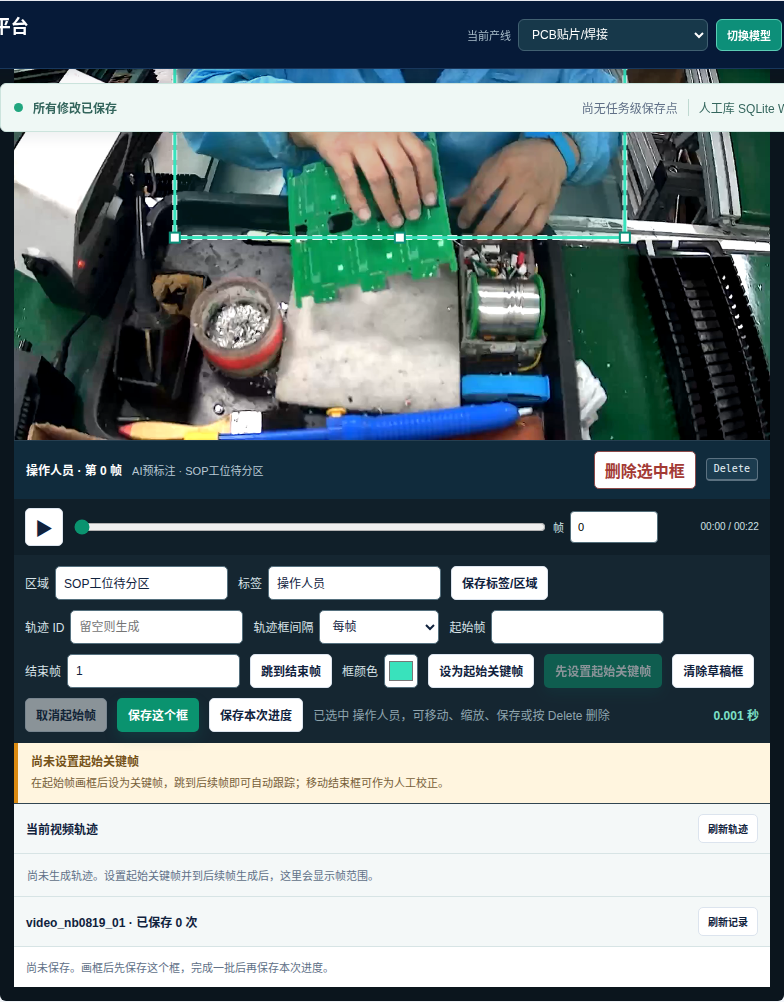
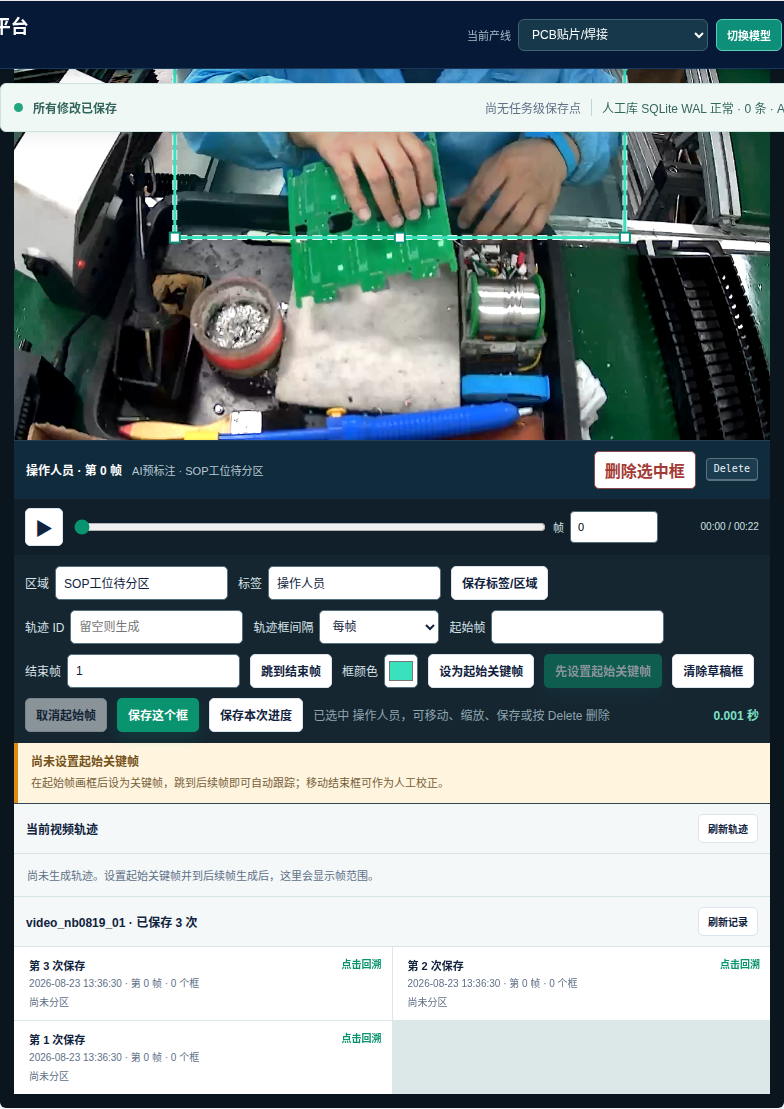
feat: gate training with thermal and GPU resource policy

diff --git a/sop-platform/web/index.html b/sop-platform/web/index.html
@@ -242,11 +242,11 @@
             <label>基础模型<select id="trainingAlgorithm"></select><small>优先使用 YOLO26N 实时模型</small></label>
             <label>已加载图片/视频标注集<select id="trainingDataset"></select><small id="trainingDatasetState">正在检查标签状态</small></label>
             <label>真值模式<select id="trainingTruthMode"><option value="human-confirmed">正式训练：仅人工确认真值</option><option value="candidate-pretrain">候选预训练：不计量产精度</option></select><small>默认禁止待复核候选冒充真值</small></label>
-            <label>运行设备<select id="trainingDevice"><option value="0">GPU 0 / CUDA</option><option value="1">GPU 1 / CUDA</option><option value="cpu">CPU（很慢，仅兼容测试）</option></select><small>系统将实际占用所选设备</small></label>
+            <label>运行设备<select id="trainingDevice"><option value="0">GPU 0 / NVIDIA GB10</option><option value="0,1" disabled>多 GPU DDP（当前仅 1 卡）</option><option value="cpu">CPU（很慢，仅兼容测试）</option></select><small>训练与后台预标互斥；70°C 暂停、62°C 恢复</small></label>
             <label>训练轮次 Epochs<input id="trainingEpochs" type="number" min="1" max="500" value="5"><small>当前需求默认 5 轮</small></label>
             <label>Batch Size<select id="trainingBatch"><option>1</option><option>2</option><option selected>4</option><option>8</option><option>16</option><option>32</option></select><small>显存不足时减小</small></label>
-            <label>输入尺寸<select id="trainingImgsz"><option value="640">640</option><option value="960" selected>960（小元器件推荐）</option><option value="1280">1280</option></select><small>越大越慢但更利于小目标</small></label>
-            <label>DataLoader Workers<input id="trainingWorkers" type="number" min="0" max="16" value="2"><small>DGX 本地建议 2–8</small></label>
+            <label>输入尺寸<select id="trainingImgsz"><option value="640" selected>640（本轮工位级推荐）</option><option value="960">960</option><option value="1280">1280</option></select><small>升高尺寸前先暂停实时推理并评估温度</small></label>
+            <label>DataLoader Workers<input id="trainingWorkers" type="number" min="0" max="8" value="1"><small>后台低负载默认 1</small></label>
             <label>Early Stop Patience<input id="trainingPatience" type="number" min="0" max="100" value="5"><small>若指标不再提升则提前停止</small></label>
             <label>随机种子<input id="trainingSeed" type="number" value="20260820"><small>保证可复现实验</small></label>
             <label>结果保存位置<select id="trainingOutput"><option value="platform">平台运行目录</option><option value="model-store">DGX 模型仓库</option><option value="desktop">桌面“训练结果”</option></select><small id="trainingOutputPath">由后端限制在安全目录</small></label>

diff --git a/sop-platform/server.py b/sop-platform/server.py
@@ -113,6 +113,11 @@ AI_PRELABEL_PROCESS: subprocess.Popen | None = None
 PRELABEL_WORKER_TOKEN = os.getenv("SOP_PRELABEL_WORKER_TOKEN", "")
 AUTOMATIC_BACKUP_MIN_INTERVAL = max(60, int(os.getenv("SOP_AUTOMATIC_BACKUP_MIN_INTERVAL", "300")))
 PRELABEL_DISTRIBUTED_CONTROL_PATH = RUNTIME_ROOT / "distributed_prelabel_control.json"
+TRAINING_MAX_TEMPERATURE = max(50.0, float(os.getenv("SOP_TRAINING_MAX_TEMPERATURE", "70")))
+TRAINING_RESUME_TEMPERATURE = min(
+    TRAINING_MAX_TEMPERATURE - 1,
+    float(os.getenv("SOP_TRAINING_RESUME_TEMPERATURE", "62")),
+)
 CAMERA_UPSTREAM_URL = os.getenv("SOP_CAMERA_UPSTREAM_URL", "").strip().rstrip("/")
 CAMERA_UPSTREAM_USER = os.getenv("SOP_CAMERA_UPSTREAM_USER", "").strip()
 CAMERA_UPSTREAM_PASSWORD = os.getenv("SOP_CAMERA_UPSTREAM_PASSWORD", "")
@@ -3232,6 +3237,10 @@ def resolve_training_model(model_id: str) -> Path:
     if not model_path.is_absolute():
         model_path = ROOT / model_path
     if not model_path.is_file():
+        managed_model = SPARK_MODEL_ROOT / model_path.name
+        if managed_model.is_file():
+            model_path = managed_model
+    if not model_path.is_file():
         raise ValueError(f"预训练权重不存在: {model_path}")
     return model_path
 
@@ -3259,6 +3268,16 @@ def training_job(job_id: str) -> dict[str, object] | None:
     return None
 
 
+def cuda_device_count() -> int:
+    try:
+        result = subprocess.run(
+            ["nvidia-smi", "-L"], capture_output=True, text=True, timeout=4, check=False,
+        )
+        return sum(line.startswith("GPU ") for line in result.stdout.splitlines()) if result.returncode == 0 else 0
+    except (OSError, subprocess.TimeoutExpired):
+        return 0
+
+
 def start_training_job(payload: dict[str, object], operator: str) -> dict[str, object]:
     dataset = resolve_training_dataset(str(payload.get("dataset") or ""))
     truth_mode = str(payload.get("truth_mode") or "human-confirmed")
@@ -3270,8 +3289,8 @@ def start_training_job(payload: dict[str, object], operator: str) -> dict[str, o
     model_path = resolve_training_model(model_id)
     epochs = max(1, min(500, int(payload.get("epochs", 5))))
     batch = max(1, min(128, int(payload.get("batch", 4))))
-    imgsz = max(320, min(2048, int(payload.get("imgsz", 960))))
-    workers = max(0, min(16, int(payload.get("workers", 2))))
+    imgsz = max(320, min(2048, int(payload.get("imgsz", 640))))
+    workers = max(0, min(8, int(payload.get("workers", 1))))
     patience = max(0, min(100, int(payload.get("patience", min(20, epochs)))))
     seed = int(payload.get("seed", 20260820))
     optimizer = str(payload.get("optimizer") or "auto")
@@ -3286,8 +3305,19 @@ def start_training_job(payload: dict[str, object], operator: str) -> dict[str, o
     if cache not in {"false", "ram", "disk"}:
         raise ValueError("缓存模式只允许 false、ram 或 disk")
     device = str(payload.get("device") or "0")
-    if device not in {"0", "1", "cpu"}:
-        raise ValueError("运行设备只允许 GPU 0、GPU 1 或 CPU")
+    gpu_count = cuda_device_count()
+    valid_devices = {"cpu", *[str(index) for index in range(gpu_count)]}
+    if gpu_count > 1:
+        valid_devices.add(",".join(str(index) for index in range(gpu_count)))
+    if device not in valid_devices:
+        raise ValueError(f"运行设备 {device} 不存在；当前检测到 {gpu_count} 块 GPU")
+    for existing_dir in training_job_dirs():
+        existing = read_config(existing_dir / "status.json", {})
+        if existing.get("status") in {"queued", "running"} and _process_is_running(existing.get("pid")):
+            raise ValueError(f"已有训练任务 {existing.get('job_id') or existing_dir.name} 在运行；为保护 DGX 不允许并发训练")
+    distributed = distributed_prelabel_status()
+    if device != "cpu" and int((distributed.get("jobs") or {}).get("running") or 0):
+        raise ValueError("分布式预标 worker 正在使用 GPU；请先在 03 页面暂停预标，待当前批次落库后再启动训练")
     output_key = str(payload.get("output") or "platform")
     output_root = TRAINING_OUTPUT_ROOTS.get(output_key)
     if output_root is None:
@@ -3306,6 +3336,12 @@ def start_training_job(payload: dict[str, object], operator: str) -> dict[str, o
         "estimated_seconds": seconds_mid, "estimated_range_seconds": [int(seconds_mid * 0.65), int(seconds_mid * 1.6)],
         "created_at": time.strftime("%Y-%m-%d %H:%M:%S"),
         "truth_notice": "human-confirmed 才可作为量产精度；candidate-pretrain 只衡量候选标签一致性。",
+        "resource_policy": {
+            "gpu_count": gpu_count, "ddp": "," in device,
+            "max_temperature_c": TRAINING_MAX_TEMPERATURE,
+            "resume_temperature_c": TRAINING_RESUME_TEMPERATURE,
+            "concurrent_training": 1, "prelabel_mutual_exclusion": True,
+        },
     }
     (job_dir / "status.json").write_text(json.dumps(status, ensure_ascii=False, indent=2), encoding="utf-8")
     command = [
@@ -3315,6 +3351,7 @@ def start_training_job(payload: dict[str, object], operator: str) -> dict[str, o
         "--patience", str(patience), "--seed", str(seed), "--target", str(payload.get("target") or "jetson"),
         "--truth-mode", truth_mode, "--optimizer", optimizer, "--lr0", str(lr0), "--weight-decay", str(weight_decay),
         "--close-mosaic", str(close_mosaic), "--freeze", str(freeze), "--amp", "true" if amp else "false", "--cache", cache,
+        "--max-temperature", str(TRAINING_MAX_TEMPERATURE), "--resume-temperature", str(TRAINING_RESUME_TEMPERATURE),
     ]
     log_handle = (job_dir / "training.log").open("a", encoding="utf-8")
     process = subprocess.Popen(command, cwd=ROOT, stdout=log_handle, stderr=subprocess.STDOUT, start_new_session=True)

diff --git a/sop-platform/scripts/run_training_job.py b/sop-platform/scripts/run_training_job.py
@@ -2,7 +2,9 @@ from __future__ import annotations
 
 import argparse
 import json
+import os
 import shutil
+import subprocess
 import time
 import traceback
 import zipfile
@@ -20,6 +22,17 @@ def update(status_path: Path, base: dict, **values: object) -> dict:
     base["updated_at"] = time.strftime("%Y-%m-%d %H:%M:%S")
     atomic_json(status_path, base)
     return base
+
+
+def gpu_temperature() -> float | None:
+    try:
+        result = subprocess.run(
+            ["nvidia-smi", "--query-gpu=temperature.gpu", "--format=csv,noheader,nounits"],
+            capture_output=True, text=True, timeout=3, check=False,
+        )
+        return max(float(line.strip()) for line in result.stdout.splitlines()) if result.returncode == 0 else None
+    except (OSError, ValueError, subprocess.TimeoutExpired):
+        return None
 
 
 def main() -> None:
@@ -43,6 +56,8 @@ def main() -> None:
     parser.add_argument("--cache", choices=("false", "ram", "disk"), default="false")
     parser.add_argument("--target", choices=("jetson", "cuda-server", "onnx-server"), default="jetson")
     parser.add_argument("--truth-mode", choices=("human-confirmed", "candidate-pretrain"), required=True)
+    parser.add_argument("--max-temperature", type=float, default=70.0)
+    parser.add_argument("--resume-temperature", type=float, default=62.0)
     args = parser.parse_args()
 
     args.job_dir.mkdir(parents=True, exist_ok=True)
@@ -50,10 +65,30 @@ def main() -> None:
     status = json.loads(status_path.read_text(encoding="utf-8"))
     started = time.time()
     try:
+        try:
+            os.nice(15)
+            subprocess.run(["ionice", "-c", "3", "-p", str(os.getpid())], timeout=3, check=False)
+        except (OSError, subprocess.TimeoutExpired):
+            pass
         from ultralytics import YOLO
 
         update(status_path, status, status="running", stage="训练", progress=5, started_at=time.strftime("%Y-%m-%d %H:%M:%S"))
         model = YOLO(args.model)
+
+        def thermal_guard(_trainer) -> None:
+            temperature = gpu_temperature()
+            if temperature is None or temperature < args.max_temperature:
+                return
+            update(
+                status_path, status, stage="温控暂停", gpu_temperature_c=temperature,
+                message=f"GPU {temperature:.0f}°C，等待降至 {args.resume_temperature:.0f}°C 后继续",
+            )
+            while temperature is not None and temperature > args.resume_temperature:
+                time.sleep(20)
+                temperature = gpu_temperature()
+            update(status_path, status, stage="训练", gpu_temperature_c=temperature, message="温度恢复，继续训练")
+
+        model.add_callback("on_train_batch_start", thermal_guard)
         result = model.train(
             data=str(args.data), epochs=args.epochs, batch=args.batch, imgsz=args.imgsz,
             device=args.device, workers=args.workers, patience=args.patience, seed=args.seed,
@@ -73,6 +108,7 @@ def main() -> None:
 
         update(status_path, status, stage="验证", progress=76, best_weight=str(best_copy))
         validated = YOLO(str(best_copy))
+        validated.add_callback("on_val_batch_start", thermal_guard)
         metrics = validated.val(
             data=str(args.data), split="val", batch=args.batch, imgsz=args.imgsz,
             device=args.device, workers=args.workers, project=str(args.job_dir / "runs"),

diff --git a/sop-platform/qa/test_release_8116.py b/sop-platform/qa/test_release_8116.py
@@ -74,6 +74,13 @@ def main() -> None:
             "temperature": page.locator("#distributedTemperature").inner_text(),
             "jobs": page.locator("#distributedJobState").inner_text(),
         }
+        page.click('.nav-item[data-view="training"]')
+        checks["training_resource_policy"] = {
+            "device": page.locator("#trainingDevice").input_value(),
+            "ddp_disabled": page.locator("#trainingDevice option[value='0,1']").evaluate("option => option.disabled"),
+            "imgsz": page.locator("#trainingImgsz").input_value(),
+            "workers": page.locator("#trainingWorkers").input_value(),
+        }
         page.click('.nav-item[data-view="annotation"]')
         page.select_option("#annotVideoSelect", "video_nb0819_01")
         page.wait_for_function("document.querySelector('#annotVideoSelect').value === 'video_nb0819_01'")
@@ -176,6 +183,9 @@ def main() -> None:
     assert checks["architecture"]["loaded"] is True
     assert checks["architecture"]["width"] > 1000
     assert "pending_review" in checks["distributed_prelabel"]["detail"]
+    assert checks["training_resource_policy"] == {
+        "device": "0", "ddp_disabled": True, "imgsz": "640", "workers": "1",
+    }
     assert checks["mobile_layout"]["page_scroll_width"] <= checks["mobile_layout"]["viewport_width"]
     assert checks["mobile_layout"]["filter_width"] <= checks["mobile_layout"]["viewport_width"]
     assert not report["http_errors"]

diff --git a/sop-platform/docs/32_宁波视觉SOP_CVAT分布式预标注完整说明书_20260823.md b/sop-platform/docs/32_宁波视觉SOP_CVAT分布式预标注完整说明书_20260823.md
@@ -469,6 +469,14 @@ nvidia-smi --query-gpu=name,temperature.gpu,utilization.gpu,power.draw --format=
 
 首次只对 `video_nb0819_01` 的 344 帧执行完整预标。验收必须确认：AI 数据库记录 344 个帧状态；标注 ID 含视频 ID，不与其他视频冲突；标签不含本轮排除的微小元件；所有候选均待人工复核；框单击选择延迟目标低于 50 ms；GPU 未触发 70°C 停机线；人工标注库未因 AI 结果明显膨胀。通过后才能逐步开放其余视频和第二节点。
 
+### 24.6 训练资源调度和 DDP 边界
+
+06 训练执行器会读取本机 `nvidia-smi -L` 的真实 GPU 数量。只有同一训练节点实际存在两块或更多 GPU 时，设备列表 `0,1` 才具备 Ultralytics/PyTorch DDP 条件；当前 DGX Spark 只检测到一块 NVIDIA GB10，因此只能使用 GPU 0，不能把多个进程启动在同一块卡上冒充分布式训练。
+
+GPU 训练与分布式预标互斥：若 03 页面仍有 worker 正在运行，训练 API 会拒绝启动并提示先暂停预标。系统同一时间只允许一个真实训练任务。训练默认 `batch=4`、`imgsz=640`、DataLoader worker 1、低 CPU/I/O 调度；每个训练和验证 batch 前检查温度，达到 70°C 暂停、降到 62°C 恢复。现场实时检测仍具有最高业务优先级，训练应安排在人工复核和数据冻结完成后的夜间窗口。
+
+跨主机 DDP 只有在远端节点通过 GPU、CUDA、网络、共享数据、模型 SHA256 和 NCCL 验收后才能启用。当前 `.128` 仅确认 SSH 端口可达，尚未完成免密密钥和 GPU 能力检查，所以不能登记为训练节点，也不能宣称已经使用两台机器共同训练。
+
 ## 25. 结论
 
 8116 在 8115 的候选框收敛基础上加入分布式全帧预标、温控恢复、AI/人工数据库隔离、工位级标签模式和框命中缓存，并保留 01 至 07 业务闭环、CVAT 双向同步、客户三种导出、YOLOv8 目录和三路共享相机。系统的核心原则是：原片只存一次、AI 先候选、人工可修改、Reviewer 才能冻结、模型同条件验收、现场证据与设备门禁共同决定、所有异常回到下一轮数据。

diff --git a/sop-platform/docs/33_8116分布式预标注与温控版发布验收报告_20260823.md b/sop-platform/docs/33_8116分布式预标注与温控版发布验收报告_20260823.md
@@ -16,6 +16,7 @@ SOP 平台：`http://192.168.1.129:8116`
 - 工位级粗粒度标签模板，默认排除电阻、电容、电感、芯片和细小焊点等微小元件。
 - AI 候选库与人工审核/账号库分离。
 - batch 4、640 输入、低调度优先级、CPU 配额、每批冷却和 70/62°C 温控回差。
+- 训练和预标 GPU 互斥、单任务训练门禁、真实 GPU 数量校验，以及训练/验证 batch 级 70/62°C 温控。
 - 页面显示总帧、完成帧、在线节点、节点温度、队列和 `pending_review` 边界。
 - 暂停在当前批次后生效，恢复优先续跑暂停视频。
 - 当前画面缓存用于框点击命中，避免点击时重复筛选和坐标映射。
@@ -47,6 +48,8 @@ Playwright 在 1440×1000 和 390×844 视口通过。架构图自然宽度 1491
 ## 4. 后台状态
 
 通过 344 帧验收后已解除单视频限制，worker 以低优先级逐段处理剩余队列。页面上的完成帧和节点温度为实时值，不能把发布时的瞬时数值写成最终固定结果。发生 70°C 温控暂停、三次失败或源视频缺失时，任务应保持暂停/失败，由管理员查日志后处理。
+
+本机只检测到一块 NVIDIA GB10，因此当前训练使用单卡低负载策略。代码支持同一节点真实多 GPU 时向 Ultralytics 传入 `0,1` 触发 PyTorch DDP，但没有通过能力检查的远端主机不会显示为已交付训练节点。
 
 ## 5. GitHub 和大文件
 
